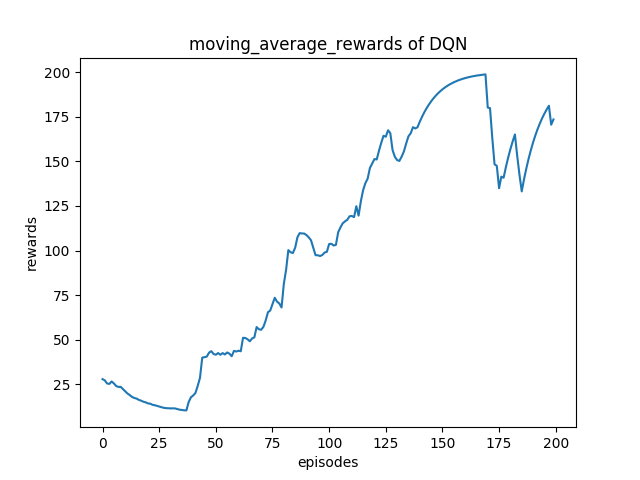
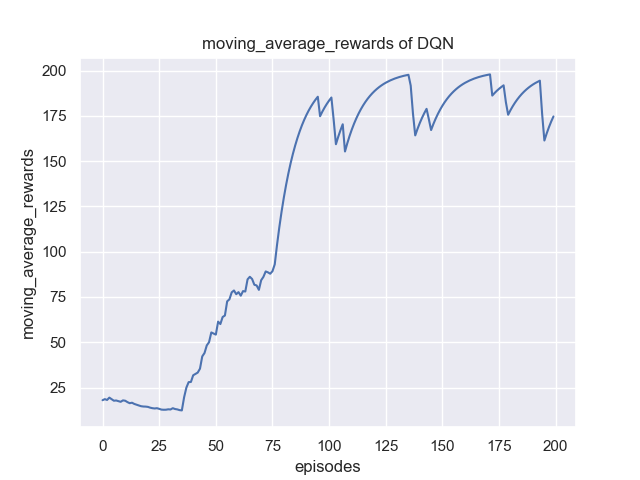
add dqn

diff --git a/codes/dqn/dqn.py b/codes/dqn/dqn.py
@@ -5,12 +5,16 @@
 @Email: johnjim0816@gmail.com
 @Date: 2020-06-12 00:50:49
 @LastEditor: John
-@LastEditTime: 2020-06-14 13:56:45
+LastEditTime: 2020-08-22 15:44:31
 @Discription: 
 @Environment: python 3.7.7
 '''
 '''off-policy
 '''
+
+
+
+
 import torch
 import torch.nn as nn
 import torch.optim as optim
@@ -20,79 +24,97 @@ import math
 import numpy as np
 from memory import ReplayBuffer
 from model import FCN
-
 class DQN:
-    def __init__(self, n_states, n_actions, gamma=0.99, epsilon_start=0.9, epsilon_end=0.05, epsilon_decay=200, memory_capacity=10000, policy_lr=0.01,batch_size=128, device="cpu"):
+    def __init__(self, n_states, n_actions, gamma=0.99, epsilon_start=0.9, epsilon_end=0.05, epsilon_decay=200, memory_capacity=10000, policy_lr=0.01, batch_size=128, device="cpu"):
         self.actions_count = 0
-        self.n_actions = n_actions
-        self.device = device
+        self.n_actions = n_actions  # 总的动作个数
+        self.device = device  # 设备，cpu或gpu等
         self.gamma = gamma
+        # e-greedy策略相关参数
         self.epsilon = 0
         self.epsilon_start = epsilon_start
         self.epsilon_end = epsilon_end
         self.epsilon_decay = epsilon_decay
         self.batch_size = batch_size
-        self.policy_net = FCN(n_states,n_actions).to(self.device)
-        self.target_net = FCN(n_states,n_actions).to(self.device)
+        self.policy_net = FCN(n_states, n_actions).to(self.device)
+        self.target_net = FCN(n_states, n_actions).to(self.device)
+        # target_net的初始模型参数完全复制policy_net
         self.target_net.load_state_dict(self.policy_net.state_dict())
         self.target_net.eval()  # 不启用 BatchNormalization 和 Dropout
-        self.optimizer = optim.Adam(self.policy_net.parameters(),lr=policy_lr)
+        # 可查parameters()与state_dict()的区别，前者require_grad=True
+        self.optimizer = optim.Adam(self.policy_net.parameters(), lr=policy_lr)
         self.loss = 0
         self.memory = ReplayBuffer(memory_capacity)
 
-    def select_action(self,state):
-        '''选择工作
+    def select_action(self, state):
+        '''选择动作
         Args:
-            state [array]: 状态
+            state [array]: [description]
         Returns:
-            [array]: 动作
+            action [array]: [description]
         '''
         self.epsilon = self.epsilon_end + (self.epsilon_start - self.epsilon_end) * \
             math.exp(-1. * self.actions_count / self.epsilon_decay)
         self.actions_count += 1
         if random.random() > self.epsilon:
             with torch.no_grad():
-                state   = torch.tensor([state],device=self.device,dtype=torch.float32) # 先转为张量便于丢给神经网络,state元素数据原本为float64；注意state=torch.tensor(state).unsqueeze(0)跟state=torch.tensor([state])等价
-                q_value = self.policy_net(state) # tensor([[-0.0798, -0.0079]], grad_fn=<AddmmBackward>)
-                action  = q_value.max(1)[1].item()
+                # 先转为张量便于丢给神经网络,state元素数据原本为float64
+                # 注意state=torch.tensor(state).unsqueeze(0)跟state=torch.tensor([state])等价
+                state = torch.tensor(
+                    [state], device=self.device, dtype=torch.float32)
+                # 如tensor([[-0.0798, -0.0079]], grad_fn=<AddmmBackward>)
+                q_value = self.policy_net(state)
+                # tensor.max(1)返回每行的最大值以及对应的下标，
+                # 如torch.return_types.max(values=tensor([10.3587]),indices=tensor([0]))
+                # 所以tensor.max(1)[1]返回最大值对应的下标，即action
+                action = q_value.max(1)[1].item()  
         else:
             action = random.randrange(self.n_actions)
         return action
+
     def update(self):
 
         if len(self.memory) < self.batch_size:
             return
+        # 从memory中随机采样transition
+        state_batch, action_batch, reward_batch, next_state_batch, done_batch = self.memory.sample(
+            self.batch_size)
+        # 转为张量
+        # 例如tensor([[-4.5543e-02, -2.3910e-01,  1.8344e-02,  2.3158e-01],...,[-1.8615e-02, -2.3921e-01, -1.1791e-02,  2.3400e-01]])
+        state_batch = torch.tensor(
+            state_batch, device=self.device, dtype=torch.float)
+        action_batch = torch.tensor(action_batch, device=self.device).unsqueeze(
+            1)  # 例如tensor([[1],...,[0]])
+        reward_batch = torch.tensor(
+            reward_batch, device=self.device, dtype=torch.float)  # tensor([1., 1.,...,1])
+        next_state_batch = torch.tensor(
+            next_state_batch, device=self.device, dtype=torch.float)
+        done_batch = torch.tensor(np.float32(
+            done_batch), device=self.device).unsqueeze(1)  # 将bool转为float然后转为张量
 
-        state_batch, action_batch, reward_batch, next_state_batch, done_batch = self.memory.sample(self.batch_size)
-        
-        state_batch = torch.tensor(state_batch,device=self.device,dtype=torch.float) # 例如tensor([[-4.5543e-02, -2.3910e-01,  1.8344e-02,  2.3158e-01],...,[-1.8615e-02, -2.3921e-01, -1.1791e-02,  2.3400e-01]])
-        action_batch  = torch.tensor(action_batch,device=self.device).unsqueeze(1) # 例如tensor([[1],...,[0]])
-        reward_batch  = torch.tensor(reward_batch,device=self.device,dtype=torch.float) # tensor([1., 1.,...,1])
-        next_state_batch = torch.tensor(next_state_batch,device=self.device,dtype=torch.float)
-        done_batch = torch.tensor(np.float32(done_batch),device=self.device).unsqueeze(1) # 将bool转为float然后转为张量
-        # Compute Q(s_t, a) - the model computes Q(s_t), then we select the
-        # columns of actions taken. These are the actions which would've been taken
-        # for each batch state according to policy_net
-        q_values = self.policy_net(state_batch).gather(1, action_batch) # 等价于self.forward       
-        # Compute V(s_{t+1}) for all next states.
-        # Expected values of actions for non_final_next_states are computed based
-        # on the "older" target_net; selecting their best reward with max(1)[0].
-        # This is merged based on the mask, such that we'll have either the expected
-        # state value or 0 in case the state was final.
-     
+        # 计算当前(s_t,a)对应的Q(s_t, a)
+        # 关于torch.gather,对于a=torch.Tensor([[1,2],[3,4]])
+        # 那么a.gather(1,torch.Tensor([[0],[1]]))=torch.Tensor([[1],[3]])
+        q_values = self.policy_net(state_batch).gather(
+            dim=1, index=action_batch)  # 等价于self.forward
+        # 计算所有next states的V(s_{t+1})，即通过target_net中选取reward最大的对应states
         next_state_values = self.target_net(
-            next_state_batch).max(1)[0].detach() # tensor([ 0.0060, -0.0171,...,])
-        # Compute the expected Q values
-        expected_q_values = reward_batch + self.gamma * next_state_values * (1-done_batch[0])
-
-        # Compute Huber loss
-        # self.loss = nn.MSELoss(q_values, expected_q_values.unsqueeze(1)) 
-        self.loss = nn.MSELoss()(q_values,expected_q_values.unsqueeze(1))
-        # Optimize the model
-        self.optimizer.zero_grad() # zero_grad clears old gradients from the last step (otherwise you’d just accumulate the gradients from all loss.backward() calls).
-        self.loss.backward() # loss.backward() computes the derivative of the loss w.r.t. the parameters (or anything requiring gradients) using backpropagation.
-        for param in self.policy_net.parameters(): # clip防止梯度爆炸
+            next_state_batch).max(1)[0].detach()  # 比如tensor([ 0.0060, -0.0171,...,])
+        # 计算 expected_q_value
+        # 对于终止状态，此时done_batch[0]=1, 对应的expected_q_value等于reward
+        expected_q_values = reward_batch + self.gamma * \
+            next_state_values * (1-done_batch[0])
+        # self.loss = F.smooth_l1_loss(q_values,expected_q_values.unsqueeze(1)) # 计算 Huber loss
+        self.loss = nn.MSELoss()(q_values, expected_q_values.unsqueeze(1))  # 计算 均方误差loss
+        # 优化模型
+        self.optimizer.zero_grad()  # zero_grad清除上一步所有旧的gradients from the last step
+        # loss.backward()使用backpropagation计算loss相对于所有parameters(需要gradients)的微分
+        self.loss.backward()
+        for param in self.policy_net.parameters():  # clip防止梯度爆炸
             param.grad.data.clamp_(-1, 1)
-        self.optimizer.step() # causes the optimizer to take a step based on the gradients of the parameters.
+        self.optimizer.step()  # 更新模型
         
-
+    def save_model():
+        pass
+    def load_model():
+        pass

diff --git a/codes/dqn/main.py b/codes/dqn/main.py
@@ -5,7 +5,7 @@
 @Email: johnjim0816@gmail.com
 @Date: 2020-06-12 00:48:57
 @LastEditor: John
-@LastEditTime: 2020-07-20 23:02:16
+LastEditTime: 2020-08-22 18:02:56
 @Discription: 
 @Environment: python 3.7.7
 '''
@@ -14,26 +14,27 @@ import torch
 from dqn import DQN
 from plot import plot
 import argparse
+
 def get_args():
-    '''模型建立好之后只需要在这里调参
+    '''模型参数
     '''
     parser = argparse.ArgumentParser()
-
     parser.add_argument("--gamma", default=0.99,
                         type=float)  # q-learning中的gamma
     parser.add_argument("--epsilon_start", default=0.95,
                         type=float)  # 基于贪心选择action对应的参数epsilon
     parser.add_argument("--epsilon_end", default=0.01, type=float)
-    parser.add_argument("--epsilon_decay", default=200, type=float)
+    parser.add_argument("--epsilon_decay", default=500, type=float)
     parser.add_argument("--policy_lr", default=0.01, type=float)
     parser.add_argument("--memory_capacity", default=1000,
-                        type=int, help="capacity of Replay Memory")
+                        type=int, help="capacity of Replay Memory") 
 
     parser.add_argument("--batch_size", default=32, type=int,
                         help="batch size of memory sampling")
-    parser.add_argument("--max_episodes", default=200, type=int)
+    parser.add_argument("--max_episodes", default=200, type=int) # 训练的最大episode数目
     parser.add_argument("--max_steps", default=200, type=int)
-    parser.add_argument("--target_update", default=2, type=int,
+    # 将目标网络的更新频率改为1就是普通的dqn，大于1就是double dqn
+    parser.add_argument("--target_update", default=1, type=int,
                         help="when(every default 10 eisodes) to update target net ")
     config = parser.parse_args()
 
@@ -44,38 +45,34 @@ if __name__ == "__main__":
 
     cfg = get_args()
     # if gpu is to be used
-    device = torch.device("cuda" if torch.cuda.is_available() else "cpu")
-    env = gym.make('CartPole-v0').unwrapped
-    env.seed(1)
+    device = torch.device("cuda" if torch.cuda.is_available() else "cpu") # 检测gpu
+    env = gym.make('CartPole-v0').unwrapped # 可google为什么unwrapped gym，此处一般不需要
+    env.seed(1) # 设置env随机种子
     n_states = env.observation_space.shape[0]
     n_actions = env.action_space.n
     agent = DQN(n_states=n_states, n_actions=n_actions, device=device, gamma=cfg.gamma, epsilon_start=cfg.epsilon_start,
-                epsilon_end=cfg.epsilon_end, epsilon_decay=cfg.epsilon_decay,policy_lr=cfg.policy_lr, memory_capacity=cfg.memory_capacity, batch_size=cfg.batch_size)
+                epsilon_end=cfg.epsilon_end, epsilon_decay=cfg.epsilon_decay, policy_lr=cfg.policy_lr, memory_capacity=cfg.memory_capacity, batch_size=cfg.batch_size)
     rewards = []
     moving_average_rewards = []
+    ep_steps = []
     for i_episode in range(1, cfg.max_episodes+1):
-        # Initialize the environment and state
-        state = env.reset()
+        state = env.reset() # reset环境状态
         ep_reward = 0
-        for t in range(1, cfg.max_steps+1):
-            # Select and perform an action
-            action = agent.select_action(state)
-            next_state, reward, done, _ = env.step(action)
+        for i_step in range(1, cfg.max_steps+1):
+            action = agent.select_action(state) # 根据当前环境state选择action
+            next_state, reward, done, _ = env.step(action) # 更新环境参数
             ep_reward += reward
-            # Store the transition in memory
-            agent.memory.push(state,action,reward,next_state,done)
-            # Move to the next state
-            state = next_state
-            # Perform one step of the optimization (on the target network)
-            agent.update()
+            agent.memory.push(state, action, reward, next_state, done) # 将state等这些transition存入memory
+            state = next_state # 跳转到下一个状态
+            agent.update() # 每步更新网络
             if done:
                 break
-
-        # Update the target network, copying all weights and biases in DQN
+        # 更新target network，复制DQN中的所有weights and biases
         if i_episode % cfg.target_update == 0:
             agent.target_net.load_state_dict(agent.policy_net.state_dict())
         print('Episode:', i_episode, ' Reward: %i' %
-              int(ep_reward), 'Explore: %.2f' % agent.epsilon)
+              int(ep_reward), 'n_steps:', i_step, 'done: ', done,' Explore: %.2f' % agent.epsilon)
+        ep_steps.append(i_step)
         rewards.append(ep_reward)
         # 计算滑动窗口的reward
         if i_episode == 1:
@@ -83,14 +80,17 @@ if __name__ == "__main__":
         else:
             moving_average_rewards.append(
                 0.9*moving_average_rewards[-1]+0.1*ep_reward)
-
+    # 存储reward等相关结果
     import os
     import numpy as np
     output_path = os.path.dirname(__file__)+"/result/"
+    # 检测是否存在文件夹
     if not os.path.exists(output_path):
         os.mkdir(output_path)
     np.save(output_path+"rewards.npy", rewards)
     np.save(output_path+"moving_average_rewards.npy", moving_average_rewards)
+    np.save(output_path+"steps.npy", ep_steps)
     print('Complete！')
     plot(rewards)
     plot(moving_average_rewards, ylabel="moving_average_rewards")
+    plot(ep_steps, ylabel="steps_of_each_episode")

diff --git a/codes/dqn/model.py b/codes/dqn/model.py
@@ -5,7 +5,7 @@
 @Email: johnjim0816@gmail.com
 @Date: 2020-06-12 00:47:02
 @LastEditor: John
-@LastEditTime: 2020-06-14 11:23:04
+LastEditTime: 2020-08-19 16:55:54
 @Discription: 
 @Environment: python 3.7.7
 '''
@@ -14,17 +14,17 @@ import torch.nn.functional as F
 
 class FCN(nn.Module):
     def __init__(self, n_states=4, n_actions=18):
-        """
-        Initialize a deep Q-learning network for testing algorithm
-            n_states: number of features of input.
-            n_actions: number of action-value to output, one-to-one correspondence to action in game.
+        """ 初始化q网络，为全连接网络
+            n_states: 输入的feature即环境的state数目
+            n_actions: 输出的action总个数
         """
         super(FCN, self).__init__()
-        self.fc1 = nn.Linear(n_states, 128)
-        self.fc2 = nn.Linear(128, 128)
-        self.fc3 = nn.Linear(128, n_actions)
+        self.fc1 = nn.Linear(n_states, 128) # 输入层
+        self.fc2 = nn.Linear(128, 128) # 隐藏层
+        self.fc3 = nn.Linear(128, n_actions) # 输出层
         
     def forward(self, x):
-        x = F.relu(self.fc1(x))
+        # 各层对应的激活函数
+        x = F.relu(self.fc1(x)) 
         x = F.relu(self.fc2(x))
         return self.fc3(x)

diff --git a/codes/dqn/plot.py b/codes/dqn/plot.py
@@ -5,19 +5,22 @@
 @Email: johnjim0816@gmail.com
 @Date: 2020-06-11 16:30:09
 @LastEditor: John
-@LastEditTime: 2020-06-14 11:38:42
+LastEditTime: 2020-08-20 16:34:34
 @Discription: 
 @Environment: python 3.7.7
 '''
 import matplotlib.pyplot as plt
+import pandas as pd
+import seaborn as sns
 import numpy as np
 import os 
 
 def plot(item,ylabel='rewards'):
+    sns.set()
     plt.figure()
     plt.plot(np.arange(len(item)), item)
     plt.title(ylabel+' of DQN') 
-    plt.ylabel('rewards')
+    plt.ylabel(ylabel)
     plt.xlabel('episodes')
     plt.savefig(os.path.dirname(__file__)+"/result/"+ylabel+".png")
     plt.show()
